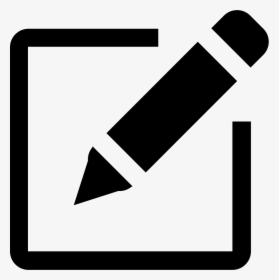
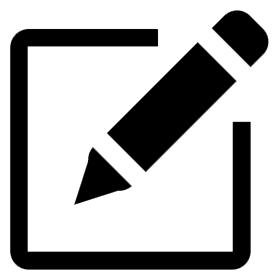
Post Design
-Import Post Icons.
-Import CSS files for home, profile, and saved page.
-Minor Optimization in navigation bar.

diff --git a/profile/main.css b/profile/main.css
@@ -244,3 +244,177 @@
     text-decoration: none;
     cursor: pointer;
 }
+/**/
+
+body{
+    overflow-y: auto;
+}
+
+#newsfeed{
+    width: 40%;
+    margin: 0 4%;
+    display: inline-block;
+}
+.post{
+    margin: 15px auto;
+    width: 90%;
+    border: 3px rgb(85, 10, 155) solid;
+    border-radius: 20px;
+    background-color:rgba(85, 0, 150, 0.85) ;
+}
+.post > img{
+    width: 8%;
+    margin: 2px 10px;
+    border-radius: 30px;
+    display: inline-block;
+    vertical-align: middle;
+}
+.post > p{
+    margin: 15px 0;
+    display: inline-block;
+    color: whitesmoke;
+    font-weight: bold;
+}
+.post > samp{
+    float: right;
+    margin: 15px 10px;
+    color: rgb(80, 185, 255);
+    font-weight: bolder;
+}
+.post > hr{
+    margin: 0;
+    padding: 0;
+}
+.post > .body{
+    width: 88%;
+    margin: 10px 0 10px 2%;
+    padding: 10px;
+    border: 2px indigo solid;
+    border-radius: 10px;
+    height: 200px;
+    font-size: 150%;
+    background-color:rgba(255, 255, 255, 0.9);
+    text-align: left;
+    display: inline-block;
+    color: black;
+}
+.post > .toolbar{
+    height: 200px;
+    border-radius: 10px;
+    margin: 10px 0;
+    width: 8%;
+    vertical-align: top;
+    display: inline-block;
+    background-color: transparent;
+}
+.toolbar > button{
+    width: 80%;
+    margin: 0 10%;
+    height: 15%;
+    margin-top: 10px;
+    padding: 0;
+    border: 0;
+    background-color: transparent;
+}
+.toolbar > p{
+    width: 100%;
+    height: 12px;
+    font-size: 70%;
+    margin: 0;
+    padding: 0;
+    color: rgb(0, 255, 0);
+    background-color: transparent;
+    border: 1px solid white;
+    border-radius: 5px;
+    text-align: center;
+    font-weight: bolder;
+}
+.toolbar > button img{
+    width: 100%;
+    height: 100%;
+}
+
+/**/
+#comments{
+    border: 3px indigo solid;
+    border-radius: 10px;
+    width: 25%;
+    height: 75%;
+    position: fixed;
+    right: 20px;
+    top: 60px;
+    text-align: center;
+    padding: 10px;
+    overflow-y: auto;
+    display: none;
+    background-color: white;
+}
+.comment{
+    width: 100%;
+    height: 95px;
+    border-bottom: 2px blue solid;
+    text-align: left;
+    background-color: rgba(128, 128, 128, 0.2);
+    border-radius: 10px;
+}
+.comment > .who{
+    width: 30%;
+    height: 90px;
+    display: inline-block;
+    text-align: center;
+}
+.who > p{
+    margin: 0;
+    padding: 0;
+    font-size: 75%;
+}
+.who > img{
+    width: 50%;
+    height: 50px;
+    margin: 10px 0 0 0;
+    vertical-align: top;
+    border-radius: 500px;
+}
+.comment > textarea{
+    margin: 5px 5px;
+    height: 80px;
+    width: 60%;
+    padding: 5px;
+    vertical-align: top;
+    background-color: whitesmoke;
+    border: 2px indigo solid;
+    border-radius: 5px;
+}
+
+/**/
+
+#writecomment{
+position: fixed;
+bottom: 20px;
+right: 20px;
+width: 25%;
+height: 13%;
+padding: 5px;
+border: 2px indigo solid;
+border-radius: 10px;
+text-align: left;
+background-color: darkblue;
+}
+#writecomment img{
+    width: 14%;
+    height: 50px;
+    display: inline-block;
+    vertical-align: top;
+    margin-top: 10px;
+    border-radius: 500px;
+}
+#writecommentform{
+    display: inline-block;
+    width: 82%;
+}
+#writecommentform textarea{
+    display: inline-block;
+    height: 80px;
+    width: 70%;
+    margin: 0 10px;
+}

diff --git a/saved/main.css b/saved/main.css
@@ -6,38 +6,11 @@ body{
 
 #newsfeed{
     width: 40%;
-    margin: 20px 30%;
-}
-#writepost{
-    margin: 10px auto;
-    width: 90%;
-    border: 3px indigo solid;
-    border-radius: 20px;
-    background-color: white;
-    background-image: url("assets/img/post_bg.jpg");
-    background-size: cover;
-}
-#writepost > img{
-    width: 8%;
-    margin: 10px;
-    border-radius: 30px;
+    margin: 0 30%;
     display: inline-block;
-    vertical-align: top;
-}
-#writepostform{
-    margin: 20px 0;
-    width: 85%;
-    height: 180px;
-    display: inline-block;
-}
-#writepostform > textarea{
-    padding: 20px;
-    font-size: 140%;
-    width: 98%;
-    border-radius: 10px;
 }
 .post{
-    margin: 30px auto;
+    margin: 15px auto;
     width: 90%;
     border: 3px rgb(85, 10, 155) solid;
     border-radius: 20px;
@@ -116,15 +89,6 @@ body{
 }
 
 /**/
-#groups_pages{
-    /*border: 3px green solid;*/
-    width: 25%;
-    height: 90%;
-    position: fixed;
-    left: 20px;
-    top: 60px;
-    display: inline-block;
-}
 #comments{
     border: 3px indigo solid;
     border-radius: 10px;

diff --git a/assets/design/Haidi (Profile)/default_p.css b/assets/design/Haidi (Profile)/default_p.css
@@ -303,13 +303,3 @@ img{
     left: 600px;
     top: 750px;
 }
-
-.modal-backdrop {
-    position: fixed;
-    top: 0;
-    right: 0;
-    bottom: 0;
-    left: 0;
-    z-index: -1;
-    background-color: #000000;
-  }
